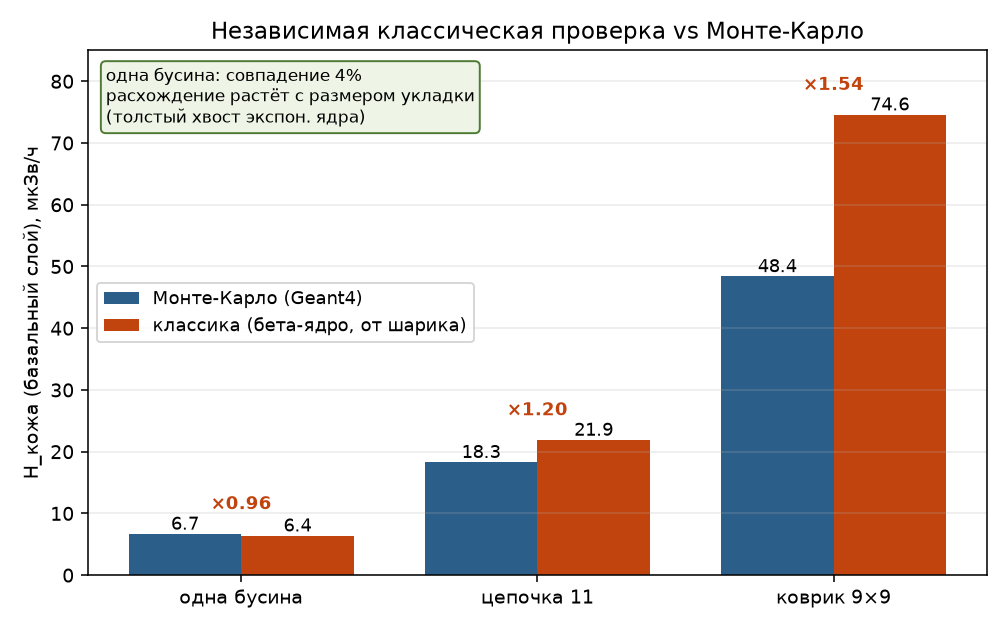
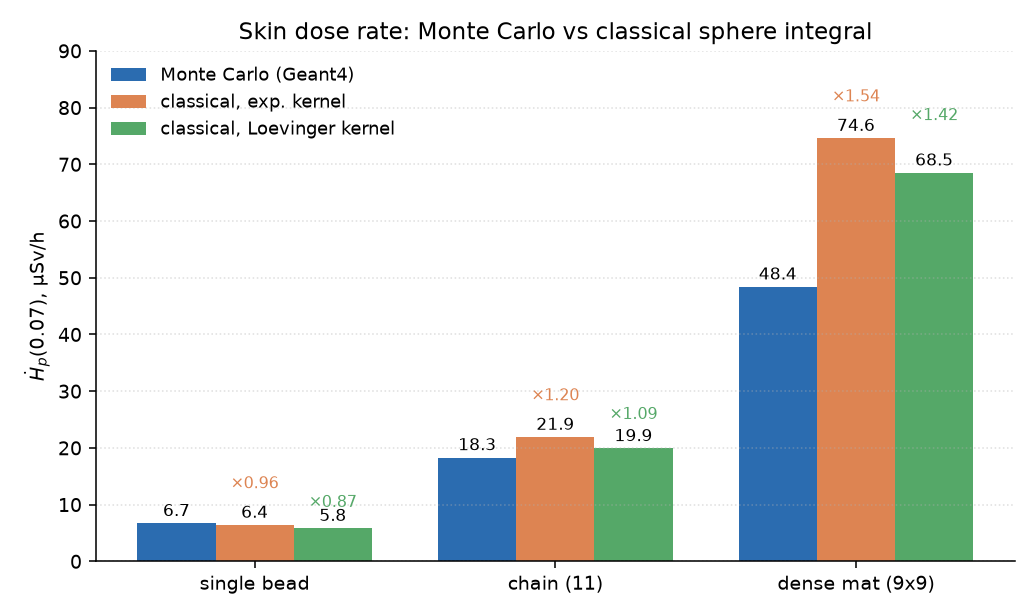
Урановый бисер: подзаголовки §7 по существу задач + Рис.5 с ядром Лёвинджера
- 7.1 «Оценка плотной укладки в замкнутой форме: полубесконечный плоский источник»
- 7.2 «Интегрирование дозового ядра по объёму сферы: эксп. и Лёвинджера ядра»
- Рис.5 перегенерирован: три ряда (МК / эксп. ядро / ядро Лёвинджера) с отношениями

diff --git a/uranium-glass-beads-skin-2026-07-23/index.html b/uranium-glass-beads-skin-2026-07-23/index.html
@@ -235,7 +235,7 @@
 <h2><span class="num">7</span>Проверочный расчёт классическим методом</h2>
 <p>Чтобы независимо от Geant4 проверить и порядок, и абсолютное значение дозы, выполнена классическая (полуаналитическая) оценка по принципу «от простого к точному»: сначала — замкнутая формула для коврика, которую читатель воспроизведёт вручную (§7.1), затем — объёмный интеграл по сфере с двумя вариантами дозового ядра (§7.2).</p>
 
-<h3>7.1. Аналитическая оценка коврика: модель полубесконечного источника</h3>
+<h3>7.1. Оценка плотной укладки в замкнутой форме: полубесконечный плоский источник</h3>
 <p>Плотный коврик латерально много больше пробега бета-частиц (экстраполированный пробег β <sup>234m</sup>Pa E<sub>max</sub> = 2,27 МэВ в ткани ≈ 1,1 г/см² ≈ 11 мм; коврик 9×9 ≈ 37 мм), поэтому его правомерно приблизить <strong>бесконечной однородной β-активной плоскостью стекла</strong>. Мощность дозы у поверхности полубесконечного однородного источника равна <em>половине</em> равновесной мощности в бесконечной среде (энергия делится поровну «вверх/вниз»), ослабленной до глубины базального слоя:</p>
 <p class="big" style="text-align:center">Ḋ<sub>p</sub>(0,07) = ½ · Σ<sub>i</sub> C<sub>v,i</sub> · Ē<sub>i</sub> · e<sup>−ν<sub>i</sub>σ</sup> · k</p>
 <ul>
@@ -264,7 +264,7 @@
 <p><strong>Неопределённость.</strong> Результат доминируется <sup>234m</sup>Pa (множитель e<sup>−νσ</sup> ≈ 0,96 почти не влияет). Определяющие вклады — удельная активность (HPGe, u ≈ 10 %) и средняя энергия β-спектра (u ≈ 10 %): u<sub>отн</sub> = √(0,10² + 0,10²) ≈ 14 %. Итог: <strong>Ḋ<sub>p</sub>(0,07) ≈ 53 ± 7 мкГр/ч</strong>.</p>
 <div class="callout"><b>Аналитическая оценка 53 ± 7 мкГр/ч против Монте-Карло 48,4 мкГр/ч — согласие +9 %</b> (в пределах неопределённости). Замкнутая формула, считаемая на бумаге, воспроизводит МК-результат для коврика. Небольшое завышение ожидаемо: реальный слой бусин имеет конечную толщину (~0,4 г/см², сопоставимо с пробегом), тогда как «полубесконечная» модель предполагает бесконечно толстый источник и слегка переоценивает вклад дальних слоёв.</div>
 
-<h3>7.2. Уточнение сферической моделью: объёмный интеграл с дозовым ядром</h3>
+<h3>7.2. Интегрирование дозового ядра по объёму сферы: экспоненциальное ядро и ядро Лёвинджера</h3>
 <p>Одиночная бусина мала в сравнении с пробегом β, поэтому полубесконечное приближение к ней неприменимо. Для неё (и промежуточных укладок) взято бета-<strong>точечное дозовое ядро</strong>, проинтегрированное по объёму стекла сферы с учётом самопоглощения; цепочка и коврик получены суперпозицией сфер на решётке:</p>
 <p class="big" style="text-align:center">Ḋ(r) = a·Ē·ν / (4π I) · Φ(ν·m) / r²,   I = ∫₀<sup>∞</sup> Φ(u) du</p>
 <p>где m — масса вдоль луча (стекло + ткань), r — расстояние. Рассмотрены два ядра Φ:</p>
@@ -513,7 +513,7 @@
 <h2><span class="num">7</span>Verification by a classical method</h2>
 <p>To check both the order of magnitude and the absolute value independently of Geant4, a classical (semi-analytical) estimate was made, "from simple to accurate": first a closed-form formula for the mat that the reader can reproduce by hand (§7.1), then a volume integral over the sphere with two variants of the dose kernel (§7.2).</p>
 
-<h3>7.1. Analytical estimate of the mat: semi-infinite source model</h3>
+<h3>7.1. Closed-form estimate of the dense packing: semi-infinite plane source</h3>
 <p>The dense mat is laterally much larger than the beta range (the extrapolated range of the <sup>234m</sup>Pa β, E<sub>max</sub> = 2.27 MeV, in tissue ≈ 1.1 g/cm² ≈ 11 mm; the 9×9 mat ≈ 37 mm), so it is legitimate to approximate it as an <strong>infinite uniform β-active plane of glass</strong>. The dose rate at the surface of a semi-infinite uniform source equals <em>half</em> the equilibrium rate in an infinite medium (energy splits equally "up/down"), attenuated to the basal-layer depth:</p>
 <p class="big" style="text-align:center">Ḋ<sub>p</sub>(0.07) = ½ · Σ<sub>i</sub> C<sub>v,i</sub> · Ē<sub>i</sub> · e<sup>−ν<sub>i</sub>σ</sup> · k</p>
 <ul>
@@ -542,7 +542,7 @@
 <p><strong>Uncertainty.</strong> The result is dominated by <sup>234m</sup>Pa (the factor e<sup>−νσ</sup> ≈ 0.96 barely matters). The governing contributions are the specific activity (HPGe, u ≈ 10 %) and the mean β energy (u ≈ 10 %): u<sub>rel</sub> = √(0.10² + 0.10²) ≈ 14 %. Result: <strong>Ḋ<sub>p</sub>(0.07) ≈ 53 ± 7 µGy/h</strong>.</p>
 <div class="callout"><b>Analytical estimate 53 ± 7 µGy/h vs Monte Carlo 48.4 µGy/h — agreement +9 %</b> (within uncertainty). A closed-form formula done on paper reproduces the MC result for the mat. The slight overestimate is expected: a real bead layer has finite thickness (~0.4 g/cm², comparable to the range), whereas the "semi-infinite" model assumes an infinitely thick source and slightly over-counts the contribution of deeper layers.</div>
 
-<h3>7.2. Refinement from the sphere: volume integral with a dose kernel</h3>
+<h3>7.2. Dose-kernel integral over the sphere volume: exponential and Loevinger kernels</h3>
 <p>A single bead is small compared with the beta range, so the semi-infinite approximation does not apply to it. For it (and the intermediate packings) a beta <strong>point-dose kernel</strong> was used, integrated over the glass volume of the sphere with self-absorption; the chain and mat are obtained by superposition of spheres on a lattice:</p>
 <p class="big" style="text-align:center">Ḋ(r) = a·Ē·ν / (4π I) · Φ(ν·m) / r²,   I = ∫₀<sup>∞</sup> Φ(u) du</p>
 <p>where m is the mass along the ray (glass + tissue) and r the distance. Two kernels Φ were considered:</p>